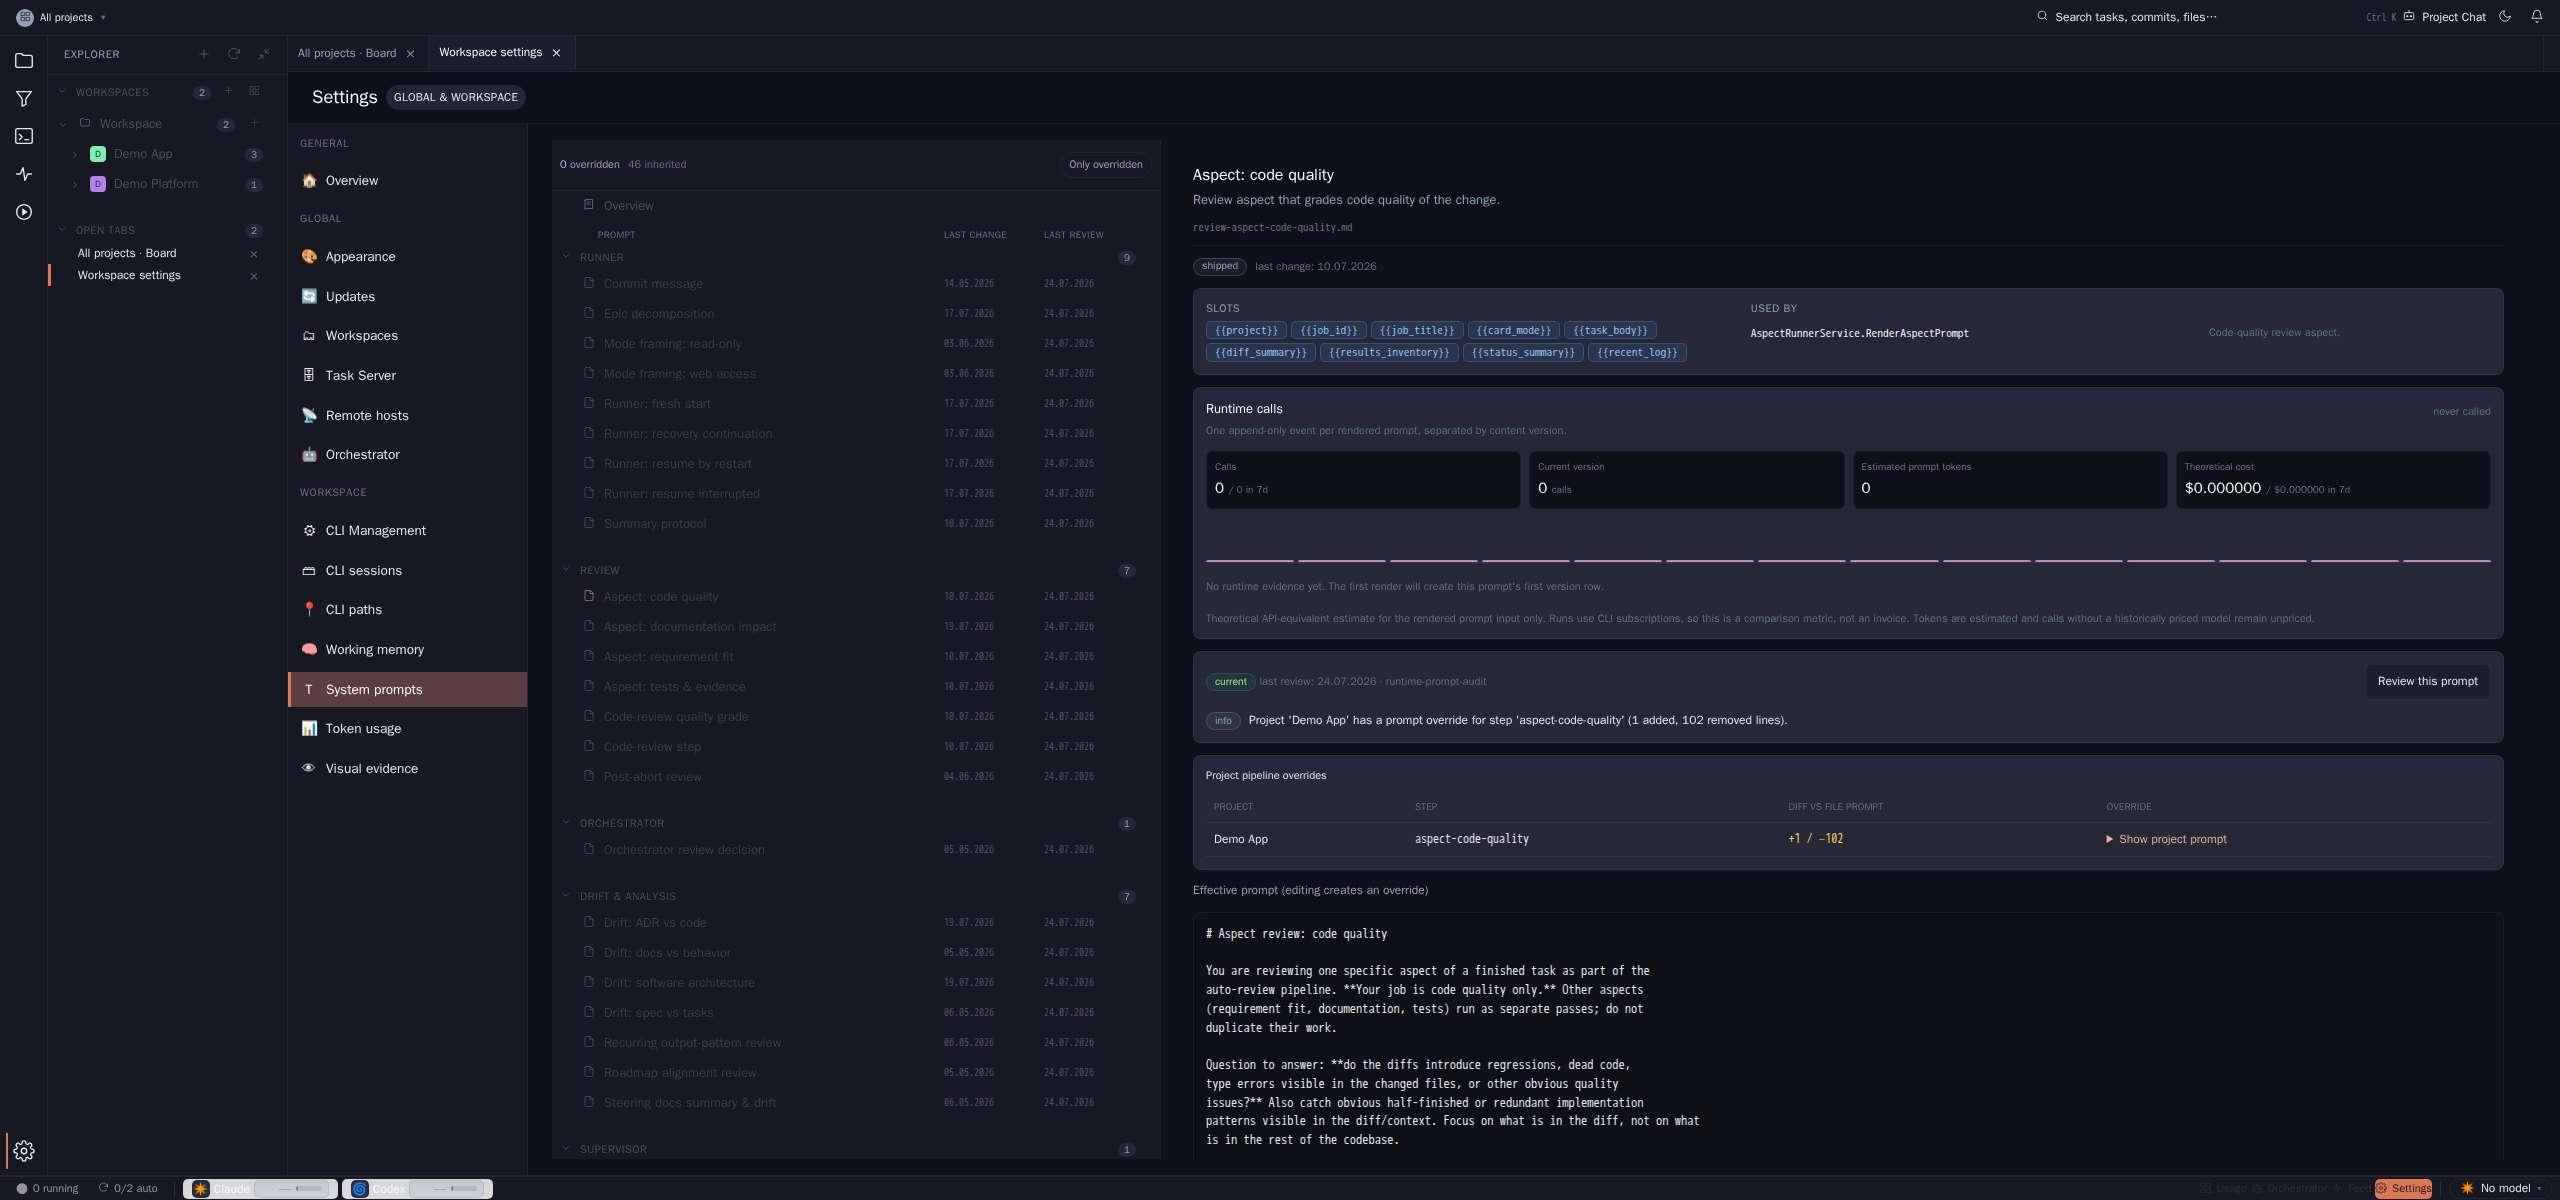
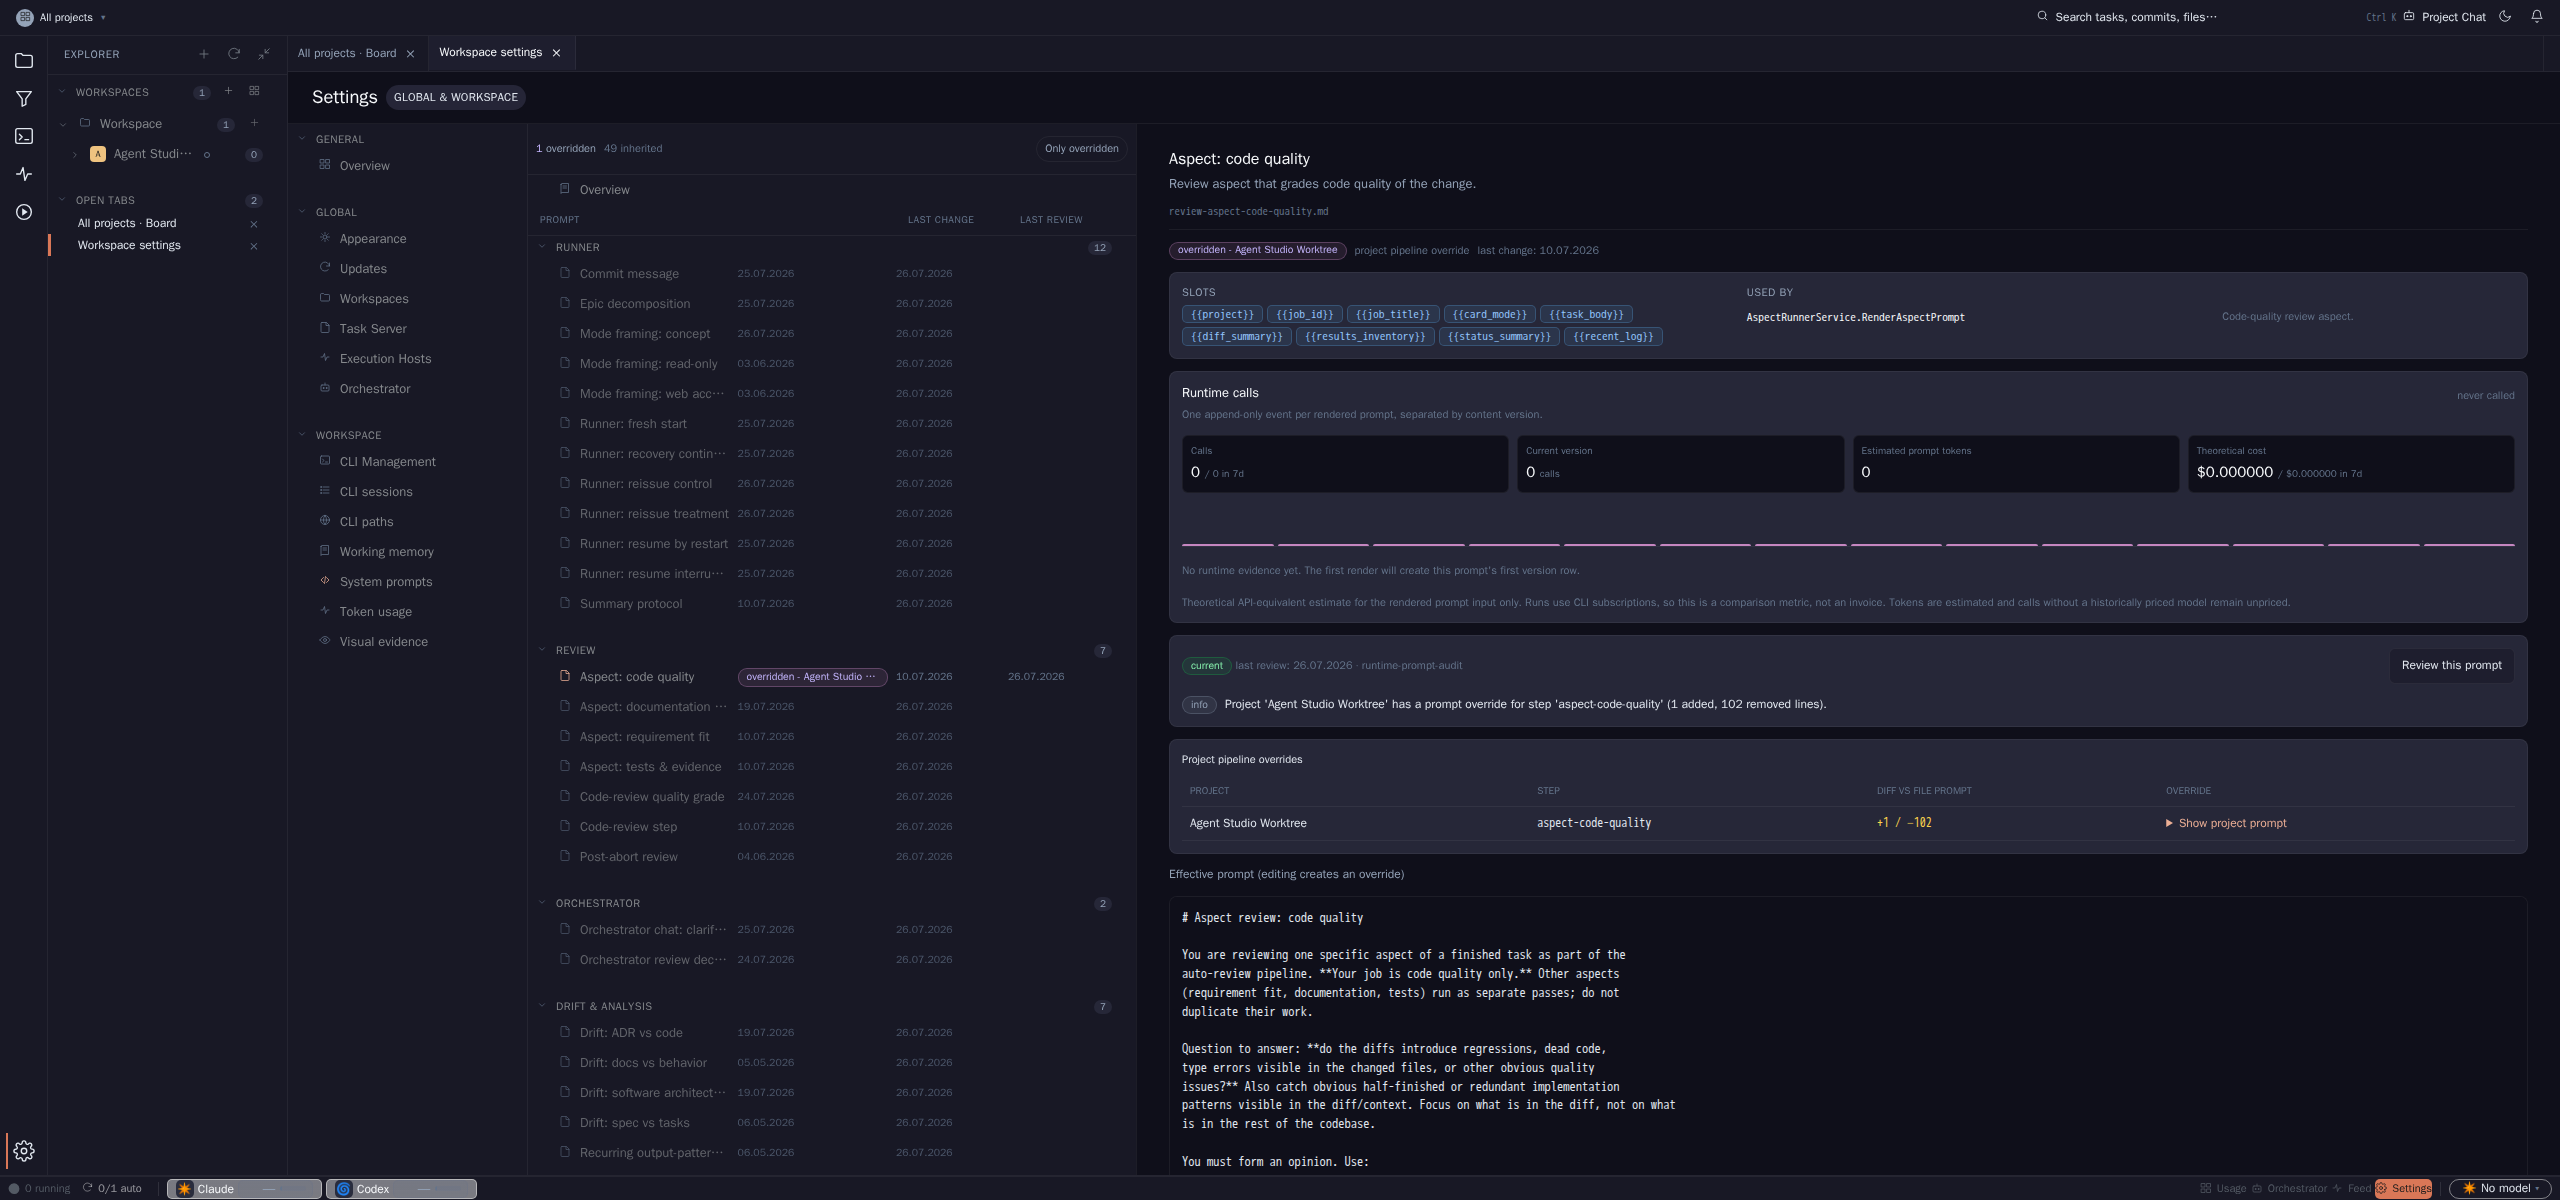
fix(AGT-2286): align prompt registry with current develop

diff --git a/frontend/e2e/project/prompt-registry-observability.spec.ts b/frontend/e2e/project/prompt-registry-observability.spec.ts
@@ -32,6 +32,22 @@ const identityHeaders = {
   'X-Client-Id': 'local-default',
 };
 
+async function leaveRecoveredChangesUncommitted(page: import('@playwright/test').Page): Promise<void> {
+  const prompt = page.getByTestId('crash-recovery-prompt');
+  if (!await prompt.isVisible({ timeout: 3_000 }).catch(() => false)) return;
+
+  const dismissAll = page.getByTestId('crash-recovery-dismiss-all');
+  if (await dismissAll.isVisible().catch(() => false)) {
+    await dismissAll.click();
+  } else {
+    const dismiss = page.getByTestId('crash-recovery-dismiss').first();
+    while (await dismiss.isVisible().catch(() => false)) {
+      await dismiss.click();
+    }
+  }
+  await expect(prompt).toBeHidden();
+}
+
 test('prompt registry reviews shipped prompts and exposes provenance, overrides, calls, and cost', async ({
   page,
   devBackend,
@@ -98,11 +114,7 @@ test('prompt registry reviews shipped prompts and exposes provenance, overrides,
       waitUntil: 'domcontentloaded',
       timeout: 30_000,
     });
-    const crashRecovery = page.getByTestId('crash-recovery-prompt');
-    if (await crashRecovery.isVisible({ timeout: 3_000 }).catch(() => false)) {
-      await page.getByTestId('crash-recovery-dismiss-all').click();
-      await expect(crashRecovery).toBeHidden();
-    }
+    await leaveRecoveredChangesUncommitted(page);
     const landing = page.getByTestId('prompt-admin-landing');
     await expect(landing).toBeVisible({ timeout: 20_000 });
     await expect(page.getByTestId('prompt-admin-overview-table')).toContainText('Calls total / 7d');
@@ -116,10 +128,7 @@ test('prompt registry reviews shipped prompts and exposes provenance, overrides,
 
     // A delayed workspace recovery observation can appear after the page's
     // initial recovery-dialog check has already completed.
-    if (await crashRecovery.isVisible().catch(() => false)) {
-      await page.getByTestId('crash-recovery-dismiss-all').click();
-      await expect(crashRecovery).toBeHidden();
-    }
+    await leaveRecoveredChangesUncommitted(page);
 
     await page.getByTestId('prompt-admin-landing-link-review-aspect-code-quality.md').click();
     const projectOverrideRow = page.getByTestId(

diff --git a/frontend/src/app/features/orchestrator/components/prompt-catalogue-nav/prompt-catalogue-nav.component.spec.ts b/frontend/src/app/features/orchestrator/components/prompt-catalogue-nav/prompt-catalogue-nav.component.spec.ts
@@ -10,6 +10,7 @@ const items: PromptCatalogItem[] = [
     title: 'Code quality',
     description: 'Review code.',
     group: 'Review',
+    promptClass: 'runtime-step',
     hasDefault: true,
     hasGlobalOverride: false,
     hasOverride: true,
@@ -17,6 +18,23 @@ const items: PromptCatalogItem[] = [
     defaultChangedSinceOverride: true,
     slots: [],
     usageCount: 1,
+    reviewStatus: 'needs-review',
+    reviewFindingCount: 1,
+    projectOverrideCount: 2,
+    calls: {
+      totalCalls: 4,
+      calls7d: 2,
+      lastCalledAt: '2026-07-26T10:00:00Z',
+      inputTokens: 80,
+      costUsd: 0.01,
+      costUsd7d: 0.004,
+      unpricedCalls: 0,
+      unpricedCalls7d: 0,
+      currentVersionCalls: 2,
+      isDead: false,
+      daily: [],
+      versions: [],
+    },
     projectOverrides: [
       {
         projectName: 'Agent Studio',
@@ -49,11 +67,29 @@ const items: PromptCatalogItem[] = [
     title: 'Fresh start',
     description: 'Start a run.',
     group: 'Runner',
+    promptClass: 'runtime-step',
     hasDefault: true,
     hasOverride: false,
     defaultChangedSinceOverride: false,
     slots: [],
     usageCount: 1,
+    reviewStatus: null,
+    reviewFindingCount: 0,
+    projectOverrideCount: 0,
+    calls: {
+      totalCalls: 0,
+      calls7d: 0,
+      lastCalledAt: null,
+      inputTokens: 0,
+      costUsd: 0,
+      costUsd7d: 0,
+      unpricedCalls: 0,
+      unpricedCalls7d: 0,
+      currentVersionCalls: 0,
+      isDead: true,
+      daily: [],
+      versions: [],
+    },
   },
 ];
 

diff --git a/frontend/src/app/features/orchestrator/components/prompt-admin-landing/prompt-admin-landing.component.ts b/frontend/src/app/features/orchestrator/components/prompt-admin-landing/prompt-admin-landing.component.ts
@@ -50,7 +50,7 @@ export class PromptAdminLandingComponent {
       {
         id: 'framing',
         title: 'Mode framing',
-        description: 'Small policy blocks injected into a runtime prompt for read-only or web-enabled modes.',
+        description: 'Small policy blocks injected into a runtime prompt for concept, read-only, or web-enabled modes.',
       },
     ];
     return definitions.map(definition => ({

diff --git a/frontend/src/app/features/orchestrator/components/prompt-admin-panel/prompt-admin-panel.component.scss b/frontend/src/app/features/orchestrator/components/prompt-admin-panel/prompt-admin-panel.component.scss
@@ -124,3 +124,7 @@
   .prompts__splitter { display: none; }
   app-prompt-catalogue-nav { border-bottom: 1px solid var(--studio-border); }
 }
+
+@media (prefers-reduced-motion: reduce) {
+  .prompts * { transition-duration: 0s !important; animation-duration: 0s !important; }
+}

diff --git a/frontend/src/app/features/orchestrator/components/prompt-admin-landing/prompt-admin-landing.component.scss b/frontend/src/app/features/orchestrator/components/prompt-admin-landing/prompt-admin-landing.component.scss
@@ -128,6 +128,7 @@
   display: grid;
   grid-template-columns: repeat(14, 3px);
   align-items: end;
+  /* stylelint-disable-next-line scale-unlimited/declaration-strict-value -- dense spark bars need a sub-scale gap */
   gap: 2px;
   height: 24px;
 }

diff --git a/backend.Tests/PromptAdminServiceTests.cs b/backend.Tests/PromptAdminServiceTests.cs
@@ -1,5 +1,6 @@
 using Microsoft.Extensions.Configuration;
 using Microsoft.Extensions.Logging.Abstractions;
+using AgentStudio.Drift;
 using AgentStudio.Pipeline;
 
 using Xunit;
@@ -8,6 +9,22 @@ namespace AgentStudio.Tests;
 
 public sealed class PromptAdminServiceTests
 {
+    [Fact]
+    public void EveryShippedPrompt_HasAReviewCompanion()
+    {
+        var promptDirectory = Path.Combine(
+            DriftRepoRootLocator.Resolve(),
+            "prompts",
+            "runtime");
+        var missing = Directory.EnumerateFiles(promptDirectory, "*.md")
+            .Where(path => !File.Exists(path + ".meta.json"))
+            .Select(Path.GetFileName)
+            .OrderBy(name => name, StringComparer.OrdinalIgnoreCase)
+            .ToList();
+
+        Assert.Empty(missing);
+    }
+
     [Fact]
     public void Render_UsesOverrideAndResetReturnsToDefault()
     {
@@ -216,28 +233,15 @@ public sealed class PromptAdminServiceTests
             "Alpha",
             "retired-review-step",
             new PipelineStepSetting { Prompt = "Unused override" });
-        settings.SetPipelineStep(
-            "Alpha",
-            PipelineCatalogue.CodeReviewGradeStepId,
-            new PipelineStepSetting { Prompt = "Known step without prompt-override wiring" });
         var admin = home.CreateAdminService(prompts, settings);
 
         var catalog = admin.GetCatalog();
         var detail = admin.GetDetail(name);
 
         Assert.Equal(1, Assert.Single(catalog.Items).ProjectOverrideCount);
-        Assert.Collection(
-            catalog.OrphanedOverrides,
-            orphan =>
-            {
-                Assert.Equal(PipelineCatalogue.CodeReviewGradeStepId, orphan.StepId);
-                Assert.True(orphan.Orphaned);
-            },
-            orphan =>
-            {
-                Assert.Equal("retired-review-step", orphan.StepId);
-                Assert.True(orphan.Orphaned);
-            });
+        var orphan = Assert.Single(catalog.OrphanedOverrides);
+        Assert.Equal("retired-review-step", orphan.StepId);
+        Assert.True(orphan.Orphaned);
 
         Assert.NotNull(detail);
         var projectOverride = Assert.Single(detail.ProjectOverrides);

diff --git a/backend/Features/Prompts/PromptAdminService.cs b/backend/Features/Prompts/PromptAdminService.cs
@@ -516,10 +516,16 @@ internal static class PromptDescriptionCatalog
             "Prompt used to resume a task by restarting the CLI session from disk state.", "Runner"),
         ["runner-recovery-continuation.md"] = new("Runner: recovery continuation",
             "Prompt used to continue a task after a recovery/crash-recovery boundary.", "Runner"),
+        ["runner-reissue-control-v1.md"] = new("Runner: reissue control",
+            "Control-arm prompt used by the versioned reissue experiment.", "Runner"),
+        ["runner-reissue-treatment-v1.md"] = new("Runner: reissue treatment",
+            "Structured treatment-arm prompt used by the versioned reissue experiment.", "Runner"),
         ["epic-decomposition.md"] = new("Epic decomposition",
             "Decomposes an epic-sized task into smaller child tasks.", "Runner"),
         ["mode-framing-readonly.md"] = new("Mode framing: read-only",
             "Framing block injected for read-only modes (planning / research) to forbid mutations.", "Runner"),
+        ["mode-framing-concept.md"] = new("Mode framing: concept",
+            "Docs-only Workbench contract injected for concept-mode runs.", "Runner"),
         ["mode-framing-web.md"] = new("Mode framing: web access",
             "Framing block injected when a run is allowed to access the web.", "Runner"),
         ["commit-message.md"] = new("Commit message",
@@ -544,6 +550,8 @@ internal static class PromptDescriptionCatalog
 
         ["orchestrator-review-decision.md"] = new("Orchestrator review decision",
             "Final orchestrator verdict for the auto-review lane (accept / reissue / escalate).", "Orchestrator"),
+        ["orchestrator-chat-clarify-first.md"] = new("Orchestrator chat: clarify first",
+            "Standalone clarify-first guidance currently not loaded by a runtime code path.", "Orchestrator"),
 
         ["adr-code-drift.md"] = new("Drift: ADR vs code",
             "Reports drift between architecture-decision records and the code.", "Drift & Analysis"),

diff --git a/backend/Features/Prompts/PromptUsageCatalog.cs b/backend/Features/Prompts/PromptUsageCatalog.cs
@@ -77,6 +77,10 @@ internal static class PromptUsageCatalog
         {
             new PromptUsageRef("RuntimePromptService", "RenderModeFraming", "Read-only framing injected via {{mode_framing}}."),
         },
+        ["mode-framing-concept.md"] = new[]
+        {
+            new PromptUsageRef("RuntimePromptService", "RenderModeFraming", "Docs-only Workbench framing injected for concept mode."),
+        },
         ["mode-framing-web.md"] = new[]
         {
             new PromptUsageRef("RuntimePromptService", "RenderModeFraming", "Web-access framing injected via {{mode_framing}}."),
